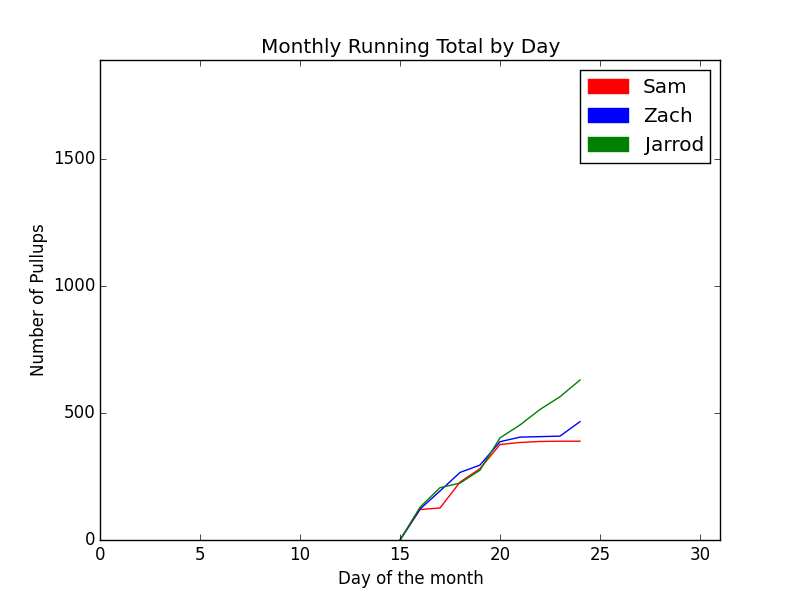
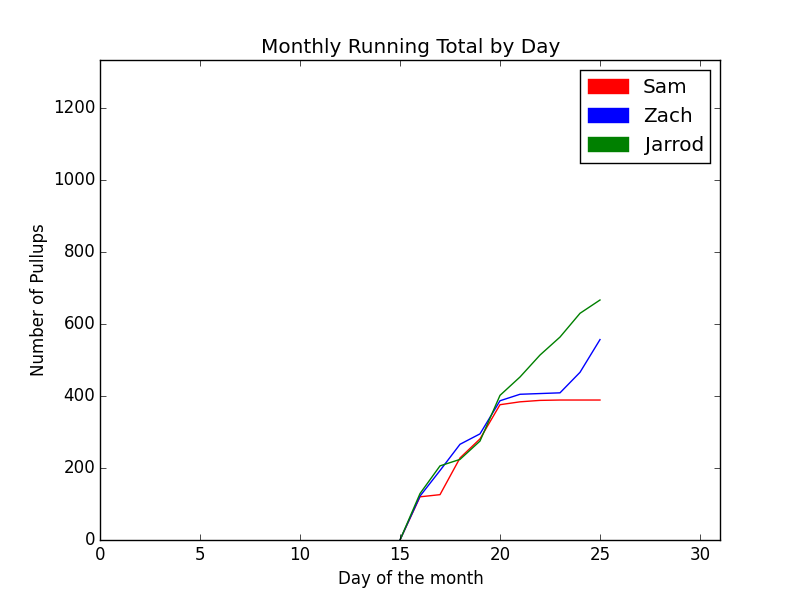
auto commit

diff --git a/main.py b/main.py
@@ -82,6 +82,40 @@ def count_a_set(user):
         time.sleep(0.25)
 
 
+def count_a_guest_set():
+    lcd.clear()
+    lcd.show_cursor(False)
+    lcd.blink(False)
+    lcd.message("Welcome, {}!\nBegin.".format(user.name))
+    set_complete = False
+    while not set_complete:
+        # Start the first time the user raises their body
+        if GPIO.input(14):
+            pullup_count = 0
+            secondsPassed = 0.0
+            # Wait 3 seconds between pullups, break when the user takes longer than 3 seconds
+            while secondsPassed < 3:
+                if GPIO.input(14):
+                    os.system('mpg123 -q bang.mp3 &')
+                    pullup_count += 1
+                    lcd.clear()
+                    lcd.message("Nice!\n%d pullups" % pullup_count)
+                    secondsPassed = 0.0
+                    # Wait for user to lower body
+                    while GPIO.input(14):
+                        time.sleep(0.05)
+                time.sleep(0.1)
+                secondsPassed += .1
+
+            set_complete = True
+            os.system('mpg123 -q ding.mp3 &')
+            record_a_set(user, pullup_count)
+            lcd.clear()
+            lcd.message("Total: {}".format(pullup_count))
+            time.sleep(3)
+        time.sleep(0.25)
+
+
 def check_for_keypress():
     pad_pins = {4:13, 1:19, 3:6, 2:26}
     for pin in pad_pins:
@@ -141,8 +175,6 @@ def wait_for_code(users):
         else:
             lcd.message("Sorry!\nUnknown Code")
             time.sleep(.5)
-        code = []
-        wait_for_code(users)
 
 
 

diff --git a/midnight_checkin.py b/midnight_checkin.py
@@ -66,6 +66,9 @@ dataset.freeze(jarrods_days, format='json', filename='jarrods_days.json')
 
 dataset.freeze(users_db, format='json', filename='overview.json')
 
+print("datasets frozen")
+time.sleep(10)
+
 sams_days = json.load(open('sams_days.json', 'r'))['results']
 zachs_days = json.load(open('zachs_days.json', 'r'))['results']
 jarrods_days = json.load(open('jarrods_days.json', 'r'))['results']
@@ -94,12 +97,16 @@ sam_patch = mpatches.Patch(color='red', label='Sam')
 zach_patch = mpatches.Patch(color='blue', label='Zach')
 jarrod_patch = mpatches.Patch(color='green', label='Jarrod')
 plt.legend(handles=[sam_patch, zach_patch, jarrod_patch])
-plt.axis([0, 31, 0, max(totals) * 3])
+plt.axis([0, 31, 0, max(totals) * 2])
 
 fig.savefig('pullupstats/static/dailies.png')
 
 # Push to heroku
-os.system("python manage.py collectstatic")
-os.system("git add .")
-os.system("git commit -m 'auto commit'")
-os.system("git push heroku master")
+time.sleep(20)
+os.popen("python manage.py collectstatic").read()
+time.sleep(30)
+os.popen("git add .").read()
+time.sleep(10)
+os.popen("git commit -m 'auto commit'").read()
+time.sleep(10)
+os.popen("git push heroku master").read()
